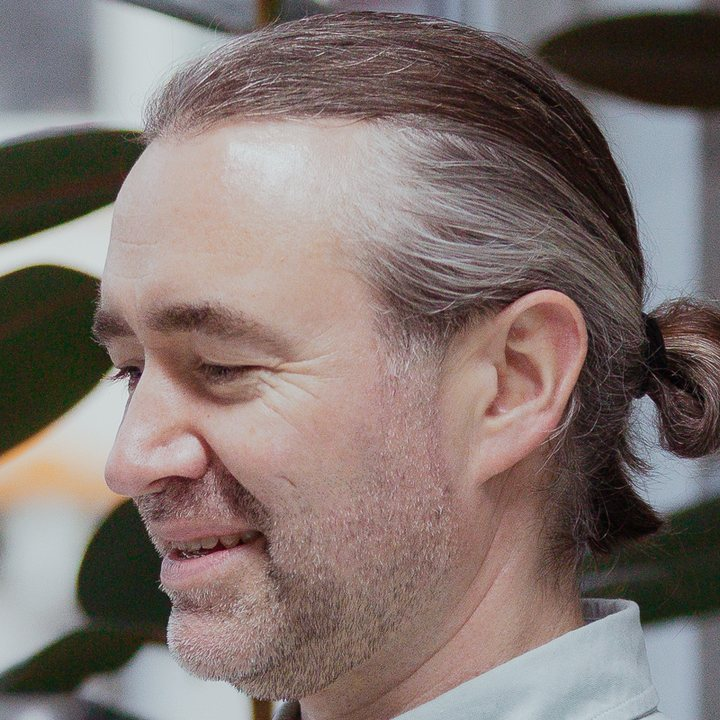
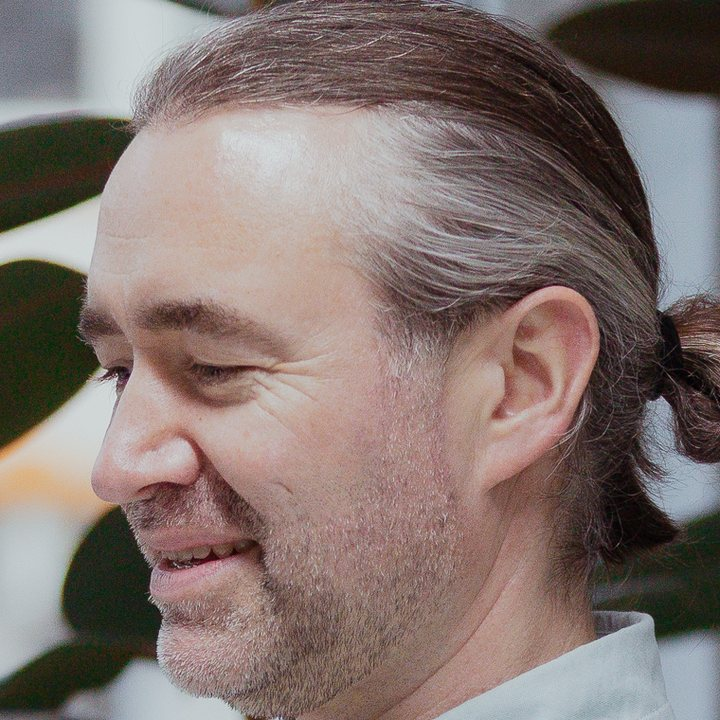
Schreibtisch-Fotos mittig neu zugeschnitten (Patrick im Zentrum, weniger Hintergrund)
Claude-Session: https://claude.ai/code/session_01RSuDSsdk6YQBXTDgcCXSxB

diff --git a/src/lib/fotos.ts b/src/lib/fotos.ts
@@ -38,7 +38,7 @@ export const fotos = {
   'patrick-02-hoch': { name: 'patrick-02', datei: '2M3A9881.jpg (Zuschnitt 4:5)', bild: patrick02Hoch, alt: PATRICK },
   'patrick-04-hoch': { name: 'patrick-04', datei: '2M3A0103.jpg (Zuschnitt 4:5)', bild: patrick04Hoch, alt: PATRICK },
   'schreibtisch-01': { name: 'schreibtisch-01', datei: '2M3A0116.jpg', bild: schreibtisch01, alt: 'Patrick Senn bei der Arbeit am Schreibtisch' },
-  'schreibtisch-01-hoch': { name: 'schreibtisch-01', datei: '2M3A0116.jpg (Zuschnitt 4:5)', bild: schreibtisch01Hoch, alt: 'Patrick Senn bei der Arbeit am Schreibtisch' },
+  'schreibtisch-01-hoch': { name: 'schreibtisch-01', datei: '2M3A0116.jpg (Zuschnitt 4:5, mittig, 16.11.2026)', bild: schreibtisch01Hoch, alt: 'Patrick Senn bei der Arbeit am Schreibtisch' },
   'kollege-02': { name: 'kollege-02', datei: '2M3A0045.jpg', bild: kollege02, alt: 'Patrick Senn mit einem Teammitglied von meinsternum' },
   'team-02': { name: 'team-02', datei: 'IMG_9666.JPG', bild: team02, alt: TEAM },
   'gruppe-01': { name: 'gruppe-01', datei: '2M3A0052.jpg', bild: gruppe01, alt: TEAM },
